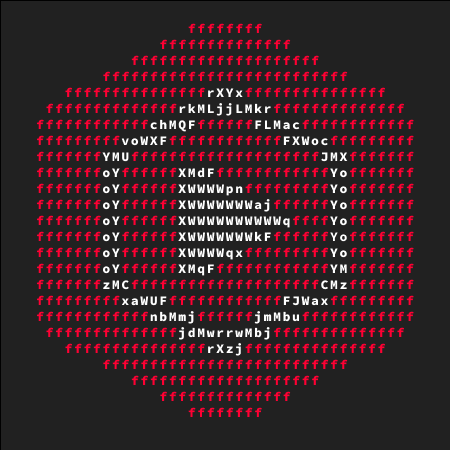
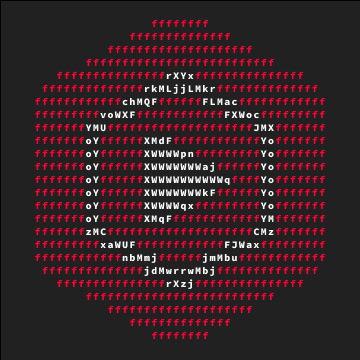
docs: unify tagline and add not-a-google-product disclaimer
- one tagline everywhere: "Manage and analyze your YouTube channel from
  the terminal. Designed for humans and AI agents." (readme, docs index,
  mkdocs site_description, pyproject)
- readme: top NOTE callout linking to disclaimer section; plain prose
  disclaimer at the bottom (no callout there)
- docs: warning admonition in disclaimer section
- docs index: drop highlight icons, rephrase "what it is" / "why it
  exists", tighten readme docs-link blurb
- new ascii header image

diff --git a/docs/index.md b/docs/index.md
@@ -1,7 +1,7 @@
 # ytstudio
 
 Manage and analyze your YouTube channel from the terminal. Designed for
-automation and AI workflows.
+humans and AI agents.
 
 ## What it is
 
@@ -20,22 +20,22 @@ and plug your channel into AI agent workflows.
 
 ## Highlights
 
-- :material-account-multiple: **Multiple channels** in a single install, with
+- **Multiple channels** in a single install, with
   per-profile credential storage. See [Multi-channel profiles](profiles.md).
-- :material-video-outline: **Bulk video updates** with search-and-replace on
+- **Bulk video updates** with search-and-replace on
   titles or descriptions, plus per-video title/description/tag edits. See
   [Bulk video updates](videos.md).
-- :material-cloud-upload-outline: **Batch upload** from a directory of YAML
+- **Batch upload** from a directory of YAML
   sidecars with resumable, quota-aware behaviour. See
   [Upload a batch from sidecars](videos.md#upload-a-batch-from-sidecars).
-- :material-chart-line: **Scripted analytics** with table or JSON output.
+- **Scripted analytics** with table or JSON output.
   See [Analytics](analytics.md).
-- :material-broadcast: **Live broadcast control** for the full lifecycle:
+- **Live broadcast control** for the full lifecycle:
   schedule, start (testing or live), update, stop, with stream-key handling.
   See [Live broadcasts](livestreams.md).
-- :material-comment-check-outline: **Comment moderation** at the CLI:
+- **Comment moderation** at the CLI:
   approve, reject, or ban in bulk. See [Comments](comments.md).
-- :material-shield-lock-outline: **OAuth credentials live owner-only
+- **OAuth credentials live owner-only
   (`0600`)** under `~/.config/ytstudio-cli/`. The `init` step is one-shot.
 
 ## Quick start
@@ -55,6 +55,8 @@ Continue with [Installation](installation.md) for the full setup or the
 
 ## Disclaimer
 
-This project is not affiliated with or endorsed by Google. YouTube and
-YouTube Studio are trademarks of Google. All channel data is accessed
-exclusively through the official YouTube Data and Analytics APIs.
+!!! warning
+    This is **not** an officially supported Google or YouTube product.
+
+YouTube and YouTube Studio are trademarks of Google. All channel data is
+accessed exclusively through the official YouTube Data and Analytics APIs.

diff --git a/README.md b/README.md
@@ -11,8 +11,11 @@
 </p>
 
 <p align="center">
-  Manage and analyze your YouTube channel from the terminal. Ideal for automation and AI workflows.
+  Manage and analyze your YouTube channel from the terminal. Designed for humans and AI agents.
 </p>
+
+> [!NOTE]
+> This is **not** an official Google product, see [disclaimer](#disclaimer).
 
 ## Motivation
 
@@ -34,8 +37,7 @@ command line.
 
 ## Documentation
 
-Full documentation, including installation, OAuth setup, and per-command reference, lives at
-[jdwit.github.io/ytstudio-cli](https://jdwit.github.io/ytstudio-cli/).
+See the [full documentation](https://jdwit.github.io/ytstudio-cli/) for installation, OAuth setup, and the command reference.
 
 ## Development
 
@@ -70,7 +72,7 @@ full details.
 
 ## Disclaimer
 
-This project is not affiliated with or endorsed by Google. YouTube and YouTube Studio are trademarks
-of Google. All channel data is accessed exclusively through the official
+This is not an officially supported Google or YouTube product. YouTube and YouTube Studio are
+trademarks of Google. All channel data is accessed exclusively through the official
 [YouTube Data API](https://developers.google.com/youtube/v3) and
 [YouTube Analytics API](https://developers.google.com/youtube/analytics).